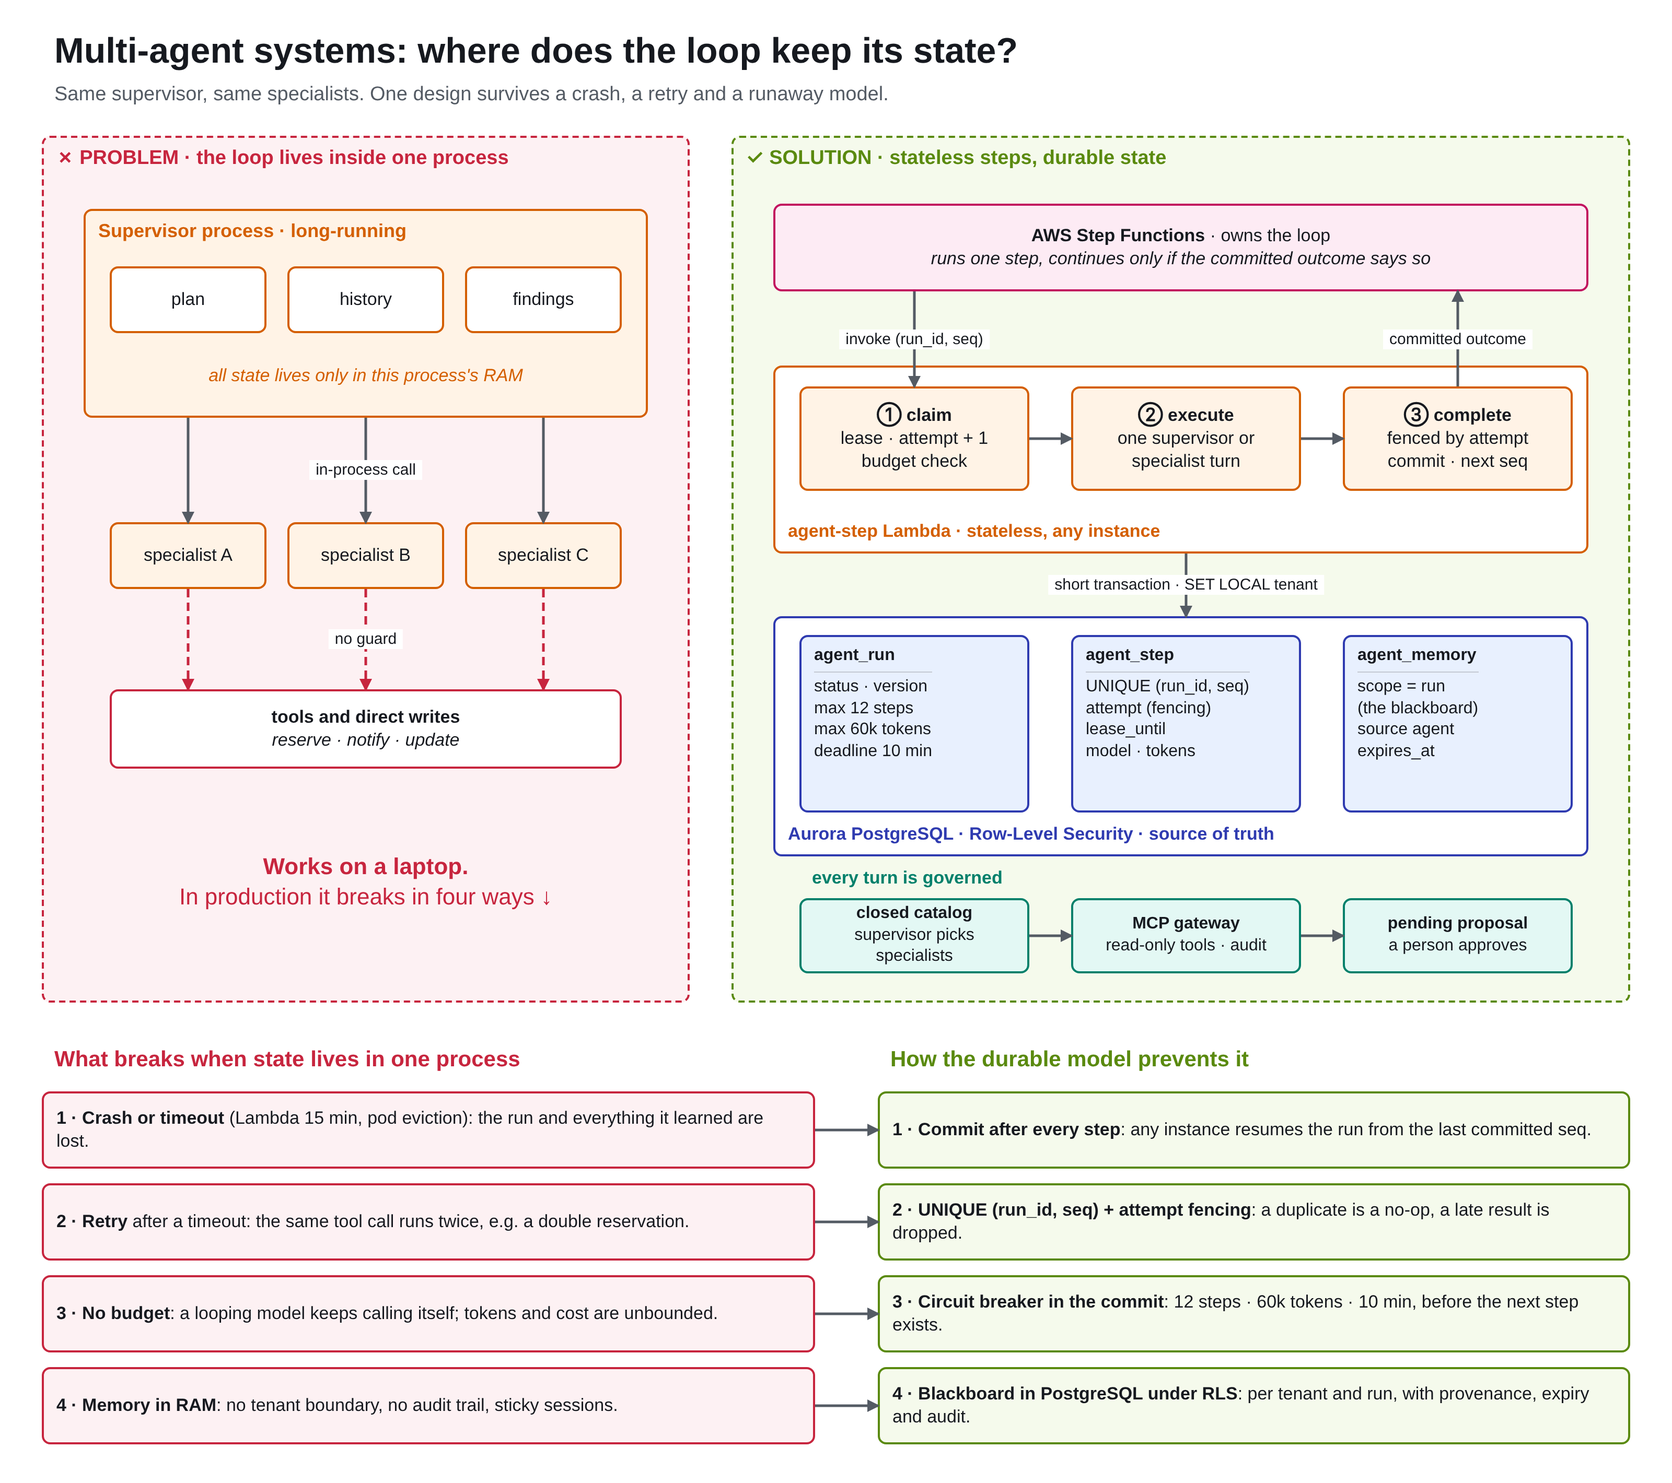
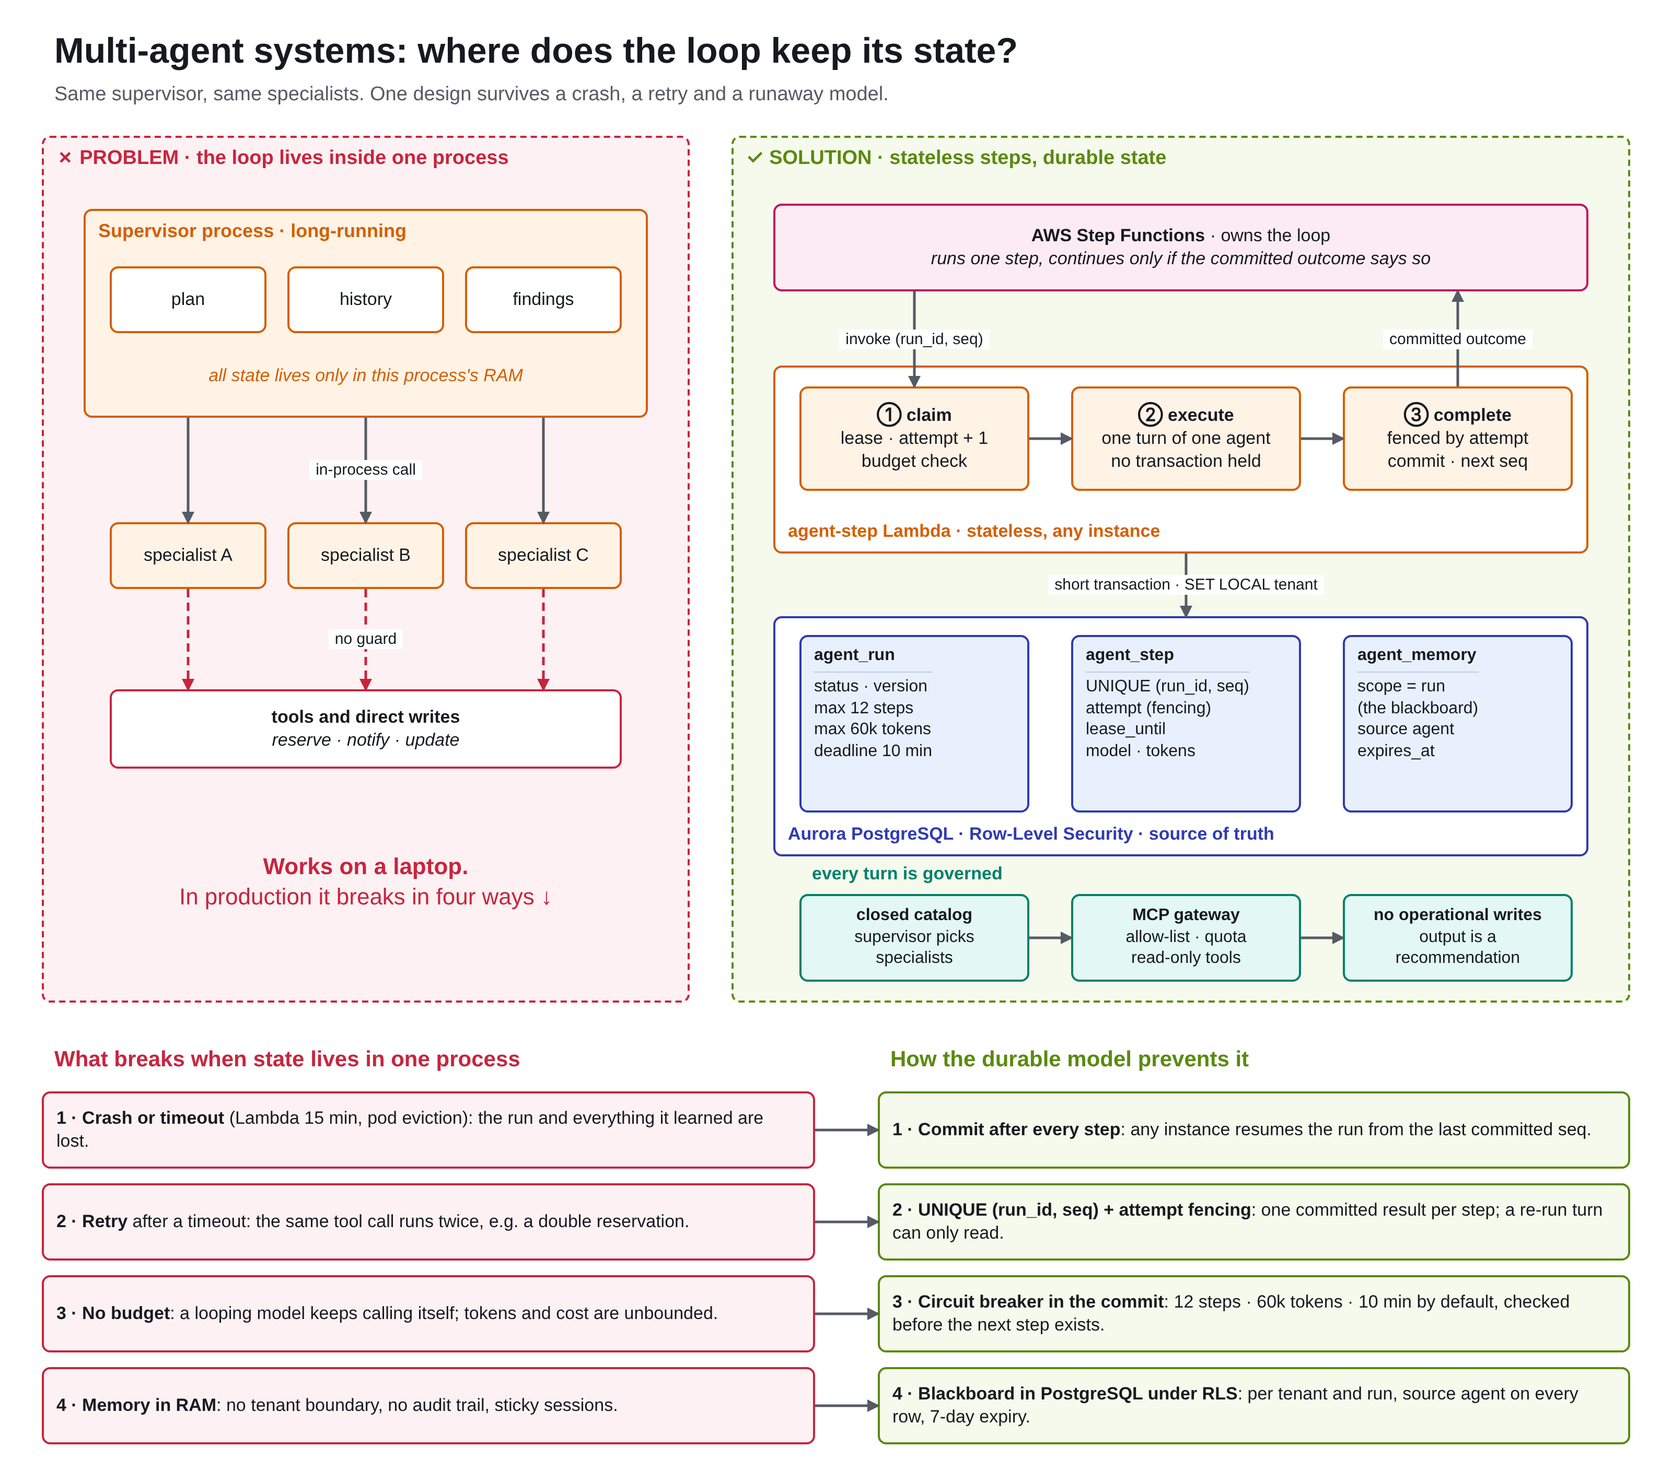
Make the multi-agent state post and diagram match the code
Every claim is now traceable to the code or a test. The diagram no longer
says agents create pending proposals (they return a recommendation; only the
OR-Tools solver creates proposals), states that fencing guarantees one
committed result per step rather than one execution, and drops audit claims
the gateway and memory rows do not make. The draft keeps the English post
only, adds a claim-to-evidence table, and notes that ADR-010's
create_proposal tool is not implemented.

diff --git a/docs/diagrams/linkedin-multi-agent-state.gen.py b/docs/diagrams/linkedin-multi-agent-state.gen.py
@@ -122,7 +122,7 @@ sfn = node("sfn", "<b>AWS Step Functions</b> · owns the loop<br>"
 lam = group("lam", "agent-step Lambda · stateless, any instance", 740, 350, 780, 180, ORANGE, "#FFFFFF",
             valign="bottom", size=17, dashed=False)
 phase_labels = ("<b>① claim</b><br>lease · attempt + 1<br>budget check",
-                "<b>② execute</b><br>one supervisor or<br>specialist turn",
+                "<b>② execute</b><br>one turn of one agent<br>no transaction held",
                 "<b>③ complete</b><br>fenced by attempt<br>commit · next seq")
 phases = [node(f"ph{i}", label, 765 + 260 * i, 370, 220, 100, ORANGE, ORANGE_BG, 17) for i, label in enumerate(phase_labels)]
 edge(sfn, phases[0], "down", 875, "invoke (run_id, seq)")
@@ -140,12 +140,12 @@ for i, label in enumerate(table_labels):
 edge(lam, db, "down", 1135, "short transaction · SET LOCAL tenant")
 
 gov_labels = ("<b>closed catalog</b><br>supervisor picks specialists",
-              "<b>MCP gateway</b><br>read-only tools · audit",
-              "<b>pending proposal</b><br>a person approves")
-text("gov_title", "every turn is governed", 765, 826, 740, 30, 17, TEAL, "left", True)
-gov = [node(f"g{i}", label, 765 + 260 * i, 860, 220, 72, TEAL, TEAL_BG, 16) for i, label in enumerate(gov_labels)]
-edge(gov[0], gov[1], "right", 896)
-edge(gov[1], gov[2], "right", 896)
+              "<b>MCP gateway</b><br>allow-list · quota<br>read-only tools",
+              "<b>no operational writes</b><br>output is a recommendation")
+text("gov_title", "every turn is governed", 765, 822, 740, 30, 17, TEAL, "left", True)
+gov = [node(f"g{i}", label, 765 + 260 * i, 856, 220, 84, TEAL, TEAL_BG, 16) for i, label in enumerate(gov_labels)]
+edge(gov[0], gov[1], "right", 898)
+edge(gov[1], gov[2], "right", 898)
 
 # ---- Failure → fix -------------------------------------------------------------------------------
 text("h_left", "What breaks when state lives in one process", 40, 995, 740, 40, 21, RED, "left", True)
@@ -154,11 +154,11 @@ rows = (
     ("<b>1 · Crash or timeout</b> (Lambda 15 min, pod eviction): the run and everything it learned are lost.",
      "<b>1 · Commit after every step</b>: any instance resumes the run from the last committed seq."),
     ("<b>2 · Retry</b> after a timeout: the same tool call runs twice, e.g. a double reservation.",
-     "<b>2 · UNIQUE (run_id, seq) + attempt fencing</b>: a duplicate is a no-op, a late result is dropped."),
+     "<b>2 · UNIQUE (run_id, seq) + attempt fencing</b>: one committed result per step; a re-run turn can only read."),
     ("<b>3 · No budget</b>: a looping model keeps calling itself; tokens and cost are unbounded.",
-     "<b>3 · Circuit breaker in the commit</b>: 12 steps · 60k tokens · 10 min, before the next step exists."),
+     "<b>3 · Circuit breaker in the commit</b>: 12 steps · 60k tokens · 10 min by default, checked before the next step exists."),
     ("<b>4 · Memory in RAM</b>: no tenant boundary, no audit trail, sticky sessions.",
-     "<b>4 · Blackboard in PostgreSQL under RLS</b>: per tenant and run, with provenance, expiry and audit."),
+     "<b>4 · Blackboard in PostgreSQL under RLS</b>: per tenant and run, source agent on every row, 7-day expiry."),
 )
 for i, (bad, good) in enumerate(rows):
     y = 1045 + 88 * i

diff --git a/docs/linkedin-multi-agent-state.md b/docs/linkedin-multi-agent-state.md
@@ -4,40 +4,42 @@ Second SecondChance post, after [SecondChance on AWS](linkedin-architecture.md).
 
 ![Where a multi-agent loop keeps its state](images/linkedin-multi-agent-state.png)
 
-Image to post: [`images/linkedin-multi-agent-state.png`](images/linkedin-multi-agent-state.png) (3200 × 2840). Editable source: [`diagrams/linkedin-multi-agent-state.drawio`](diagrams/linkedin-multi-agent-state.drawio), generated with the PNG layout by [`diagrams/linkedin-multi-agent-state.gen.py`](diagrams/linkedin-multi-agent-state.gen.py). It mirrors [`api/secondchance/agents/runtime.py`](../api/secondchance/agents/runtime.py) and migration `0002` (`agent_run`, `agent_step`, `agent_memory`).
+Image to post: [`images/linkedin-multi-agent-state.png`](images/linkedin-multi-agent-state.png) (3200 × 2840). Editable source: [`diagrams/linkedin-multi-agent-state.drawio`](diagrams/linkedin-multi-agent-state.drawio), generated with the PNG layout by [`diagrams/linkedin-multi-agent-state.gen.py`](diagrams/linkedin-multi-agent-state.gen.py).
 
 ---
 
-## Post (English)
+## Post
 
-Your multi-agent system will crash mid-run. The real design question is: what survives?
+A multi-agent run will die halfway sooner or later. The design question is what survives.
 
-Most multi-agent demos keep the supervisor loop inside one process. The plan, the conversation and every specialist's findings live in RAM while the supervisor calls specialists. On a laptop it works. In production it fails in four ways:
+Many multi-agent prototypes keep the supervisor loop inside one process: the plan, the history and every specialist's findings live in RAM. In production that fails in four ways:
 
-1⃣ A timeout or restart (Lambda's 15 minutes, a pod eviction) kills the run and everything it learned.
-2⃣ A retry repeats a tool call that already happened: a reservation made twice.
-3⃣ Nothing stops a looping model from burning tokens.
-4⃣ Memory in RAM has no tenant boundary, no audit trail, and pins each run to one machine.
+1⃣ A timeout or restart (Lambda stops at 15 minutes, pods get evicted) loses the run and everything it learned.
+2⃣ A retry repeats a tool call that already ran.
+3⃣ Nothing stops a model that keeps looping.
+4⃣ Memory in RAM has no tenant boundary and no audit trail, and ties each run to one machine.
 
-So the choice is not "which framework". It is: where does the loop keep its state?
+So the first choice is not the framework. It is where the state lives.
 
-In SecondChance my answer is: in no process at all.
+In SecondChance, the source-available food-rescue platform I am building, the answer is: in no process.
 
-How I modelled it:
+How it is modelled:
 
-→ A run is a state machine in PostgreSQL. agent_run holds status, version and the budgets: 12 steps, 60k tokens, 10 minutes. agent_step holds one row per turn: UNIQUE(run_id, seq), an attempt counter and a lease.
+→ A run is a state machine in PostgreSQL. agent_run holds the status and the budgets (by default 12 steps, 60k tokens, 10 minutes). agent_step holds one row per turn, UNIQUE (run_id, seq), with an attempt counter and a lease.
 
-→ The agent is a function. Each step is claim (lease, attempt + 1, budget check) → execute one supervisor or specialist turn → complete in a short transaction fenced by that attempt. If the lease expired and another worker took over, the late result is dropped.
+→ Each step is stateless: claim (take the lease, attempt + 1, check the budget), execute one turn of one agent, then complete in a short transaction that only the claiming attempt can commit. A worker that lost its lease has its result dropped.
 
-→ The loop lives outside the agent. AWS Step Functions invokes one bounded step and continues only if the committed outcome says "continue". The model's text never decides when to stop; the commit does.
+→ The loop lives outside the agents. AWS Step Functions invokes one step at a time and continues only when the committed outcome says so. Code and budgets end the run, not the model's text.
 
-→ The blackboard the agents share is a table under Row-Level Security: per tenant, per run, with provenance and expiry.
+→ The shared blackboard is a table under Row-Level Security: per tenant and run, the source agent on every row, a 7-day expiry.
 
-→ Star topology: the supervisor picks from a closed, versioned catalog of specialists and the server validates the plan. Every tool call crosses an MCP gateway, read-only. The only write is a pending proposal a person approves.
+→ The supervisor plans only from a closed catalog of specialists; the server validates the plan and falls back to a fixed one when it is invalid. Tools go through an MCP gateway (allow-list, quota) and are read-only. Agents write no operational data: they return a recommendation, and a person decides.
 
-What it buys: any instance resumes any run from the last committed step, a duplicate message is a no-op, a runaway run stops in the same transaction that would have continued it, and every turn records model, prompt hash, tokens and latency.
+One honest caveat: this gives exactly-once commits, not exactly-once execution. After a crash a turn can run again, but only one result is ever committed. That is why the tools are read-only.
 
-The trade-off is real: more database round trips, and no hidden state in the framework (I skipped LangGraph checkpointers because they would duplicate state the database already owns). For a single-turn assistant it is overkill. For anything that runs for minutes, touches real data or serves more than one tenant, it is the first decision I would make.
+What it buys: any instance can resume any run, a duplicate message is a no-op, a run over budget ends as budget_exhausted instead of "success", and every turn records model, prompt hash, tokens and latency. The recovery and budget paths are covered by tests against a real PostgreSQL.
+
+The cost: more database round trips, and no hidden framework state (I skipped LangGraph checkpointers because they would duplicate state the database already owns). For a single-turn assistant this is overkill. For agents that run for minutes, touch real data or serve several tenants, it is the first decision I would make.
 
 Rule of thumb: the agent is a function, the run is a state machine, the database is the memory.
 
@@ -47,48 +49,35 @@ Code and ADRs: https://github.com/PierfrancescoLijoi/SecondChance
 
 ---
 
-## Post (italiano)
+## Evidence for every claim
 
-Il tuo sistema multi-agente andrà in crash a metà di un run. La vera domanda di design è: cosa sopravvive?
+Each statement in the post and the image, and where it is true in this repository. Tests marked ✓ were run against PostgreSQL 16 with pgvector and PostGIS, as the `secondchance_app` role (no BYPASSRLS): 43 agent, memory and tool tests, 18 tenant-isolation tests, 6 MCP Gateway tests, all passing.
 
-Molte demo multi-agente tengono il loop del supervisor dentro un solo processo. Piano, conversazione e risultati degli specialist vivono in RAM mentre il supervisor li chiama. Sul laptop funziona. In produzione si rompe in quattro modi:
+| Claim | Evidence |
+|---|---|
+| Budgets default to 12 steps, 60k tokens, 10 minutes | `api/migrations/versions/0002_agents_memory_experiments.py` (`max_steps DEFAULT 12`, `max_tokens DEFAULT 60000`, `deadline_at DEFAULT now() + interval '10 minutes'`); `start_run(max_steps=12)` in `api/secondchance/agents/runtime.py` |
+| `agent_step` has `UNIQUE (run_id, seq)`, `attempt`, `lease_until`, model, prompt hash, tokens, latency | same migration, `CREATE TABLE agent_step` |
+| Claim takes a lease, increments the attempt, checks the budget | `_claim` in `runtime.py` |
+| Execute holds no transaction | module docstring and `execute` in `runtime.py`; `intake` comment "never hold an Aurora transaction while waiting" in `agents/builtin.py` |
+| Only the claiming attempt can commit; a late result is dropped | `_complete`: `UPDATE ... WHERE attempt = :attempt AND status = 'running'`, rollback on 0 rows · ✓ `test_worker_that_lost_its_lease_cannot_complete` |
+| A duplicate message is a no-op | `_claim` returns `not_claimable` for a finished step; next step inserted `ON CONFLICT (run_id, seq) DO NOTHING` · ✓ `test_redelivered_message_does_not_run_the_step_again` |
+| Over budget ends as `budget_exhausted`, decided in the commit before the next step exists | `_complete` sets the status in the same `UPDATE agent_run` and inserts the next step only if still `running` · ✓ `test_step_budget_ends_the_run_as_budget_exhausted` |
+| Step Functions invokes one step and continues only on the committed outcome | `infra/terraform/modules/secondchance/orchestration.tf` (`STANDARD`, Choice on `$.continue`); `agent_step` handler in `api/secondchance/aws_lambda.py` returns `continue` from the outcome after commit |
+| Any instance resumes; a lost Lambda response is recovered from the database | `workflow_resume` in `runtime.py`, Step Functions `Retry` and `Wait for lease` · ✓ `test_agent_step_recovers_when_the_previous_lambda_response_was_lost`, ✓ `test_workflow_retry_waits_while_the_original_step_still_holds_its_lease` |
+| Code and budgets end the run, not the model's text | `supervisor` in `agents/builtin.py` returns `succeeded` when every planned specialist has a result; a specialist's refusal becomes `failed`; a refused or invalid plan or synthesis falls back to a deterministic one (`plan_operations`, `synthesize_results`) |
+| Short transaction with `SET LOCAL` tenant | `tenant_transaction` in `api/secondchance/db.py` (`set_config(..., true)`) |
+| Blackboard under RLS, source agent on every row, 7-day expiry | `agent_memory` (`source NOT NULL`, `expires_at NOT NULL`), RLS policy `tenant_isolation` in migration 0002; `run: timedelta(days=7)` in `api/secondchance/memory.py`; app role `NOBYPASSRLS` and owns nothing (`db/bootstrap.sql`) · ✓ `test_other_tenant_sees_no_memory` |
+| Closed catalog, validated plan, fixed fallback | `_parse_plan` (1 to 4 steps, no repeats, registered agents only) and `FALLBACK_PLANS` in `agents/planning.py` · ✓ `test_invalid_model_plan_falls_back_to_safe_route_plan`, ✓ `test_supervisor_accepts_only_a_valid_allowlisted_plan` |
+| Tools go through the MCP gateway with allow-list and quota, read-only | `Specialist.build` calls `ToolGatewayClient`; `mcp-gateway/mcp_gateway/policy.py` and DynamoDB rate limiter; `ALLOWED_TOOLS = {"knowledge_search"}`; `read_only` enforced in `api/secondchance/tools/gateway.py` · ✓ MCP Gateway tests, ✓ `test_gateway_rejects_unknown_tool_invalid_input_role_and_agent` |
+| Agents write no operational data; the output is a recommendation | specialists only return findings to run memory; the supervisor ends with `Synthesis(..., recommended_next_action)`; no agent code touches offers, proposals or missions (`docs/agents.md`, "Agents never write") |
+| No LangGraph checkpointers, because they would duplicate state | `docs/ADR.md`, ADR-005 and ADR-010, rejected alternatives |
+| Lambda's 15-minute limit | AWS Lambda maximum function timeout (900 s) |
 
-1⃣ Un timeout o un restart (i 15 minuti di Lambda, un pod evicted) uccide il run e tutto quello che aveva capito.
-2⃣ Un retry ripete una tool call già eseguita: una prenotazione fatta due volte.
-3⃣ Nessuno ferma un modello che va in loop e brucia token.
-4⃣ La memoria in RAM non ha confini di tenant, non ha audit e lega ogni run a una macchina.
-
-Quindi la scelta non è "quale framework". È: dove tiene lo stato il loop?
-
-In SecondChance la mia risposta è: in nessun processo.
-
-Come l'ho modellato:
-
-→ Un run è una state machine in PostgreSQL. agent_run contiene stato, versione e budget: 12 step, 60k token, 10 minuti. agent_step ha una riga per turno: UNIQUE(run_id, seq), un contatore di tentativi e un lease.
-
-→ L'agente è una funzione. Ogni step è claim (lease, attempt + 1, controllo budget) → execute di un solo turno di supervisor o specialist → complete in una transazione breve, protetta (fencing) da quel tentativo. Se il lease è scaduto e un altro worker ha preso lo step, il risultato in ritardo viene scartato.
-
-→ Il loop vive fuori dall'agente. AWS Step Functions invoca uno step limitato e prosegue solo se l'esito committato dice "continue". Non è il testo del modello a decidere quando fermarsi: è il commit.
-
-→ La blackboard condivisa dagli agenti è una tabella sotto Row-Level Security: per tenant, per run, con provenienza e scadenza.
-
-→ Topologia a stella: il supervisor sceglie da un catalogo chiuso e versionato di specialist e il server valida il piano. Ogni tool call passa da un MCP gateway, in sola lettura. L'unica scrittura è una proposta pending che una persona approva.
-
-Cosa si ottiene: qualsiasi istanza riprende qualsiasi run dall'ultimo step committato, un messaggio duplicato non fa nulla, un run fuori controllo si ferma nella stessa transazione che l'avrebbe fatto proseguire, e ogni turno registra modello, hash del prompt, token e latenza.
-
-Il trade-off c'è: più round trip verso il database e nessuno stato nascosto nel framework (ho evitato i checkpointer di LangGraph perché duplicherebbero uno stato che il database possiede già). Per un assistente a turno singolo è eccessivo. Per tutto ciò che dura minuti, tocca dati reali o serve più di un tenant, è la prima decisione che prenderei.
-
-Regola pratica: l'agente è una funzione, il run è una state machine, il database è la memoria.
-
-Codice e ADR: https://github.com/PierfrancescoLijoi/SecondChance
-
-#AgenticAI #MultiAgent #LLMOps #SoftwareArchitecture #AWS #PostgreSQL
-
----
+Not claimed, on purpose: exactly-once execution (a turn can re-run after a lost lease, which is why tools are read-only), and that agents create proposals. ADR-010 describes a `create_proposal` tool, but the code does not implement one: operational proposals come only from the OR-Tools solver and are approved by a coordinator.
 
 ## Image alt text
 
-Two panels and a table. Left, in red: a long-running supervisor process holds plan, history and findings in RAM and calls three specialists, which write directly to tools with no guard. Right, in green: AWS Step Functions invokes a stateless agent-step Lambda once per turn (claim, execute, complete) and continues only on the committed outcome; the state lives in Aurora PostgreSQL tables agent_run, agent_step and agent_memory under Row-Level Security; every turn is governed by a closed specialist catalog, an MCP gateway with read-only tools and a pending proposal a person approves. Below, four failures of the in-process design, each mapped to its fix: commit after every step, UNIQUE (run_id, seq) with attempt fencing, a circuit breaker in the commit, and a blackboard in PostgreSQL under RLS.
+Two panels and a table. Left, in red: a long-running supervisor process holds plan, history and findings in RAM and calls three specialists, which write directly to tools with no guard. Right, in green: AWS Step Functions invokes a stateless agent-step Lambda once per turn (claim, execute, complete) and continues only on the committed outcome; the state lives in Aurora PostgreSQL tables agent_run, agent_step and agent_memory under Row-Level Security; every turn is governed by a closed specialist catalog, an MCP gateway with an allow-list, a quota and read-only tools, and agents make no operational writes. Below, four failures of the in-process design, each mapped to its fix: commit after every step, UNIQUE (run_id, seq) with attempt fencing, a circuit breaker in the commit, and a blackboard in PostgreSQL under RLS.
 
 ## Changing the image
 
